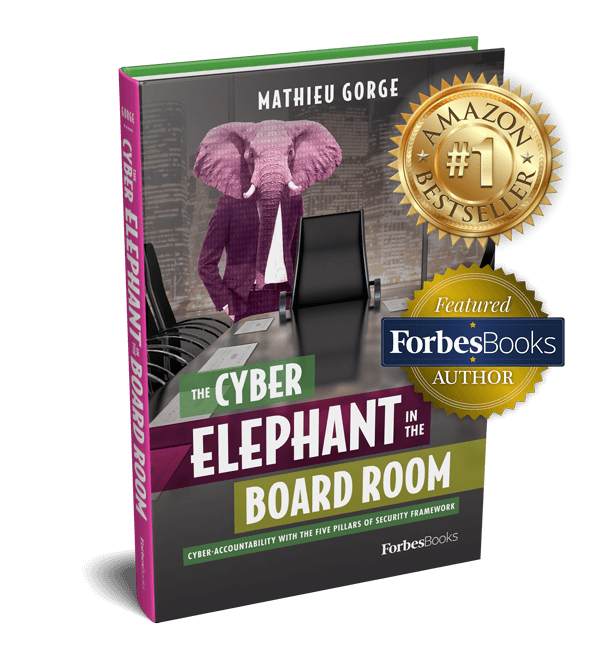
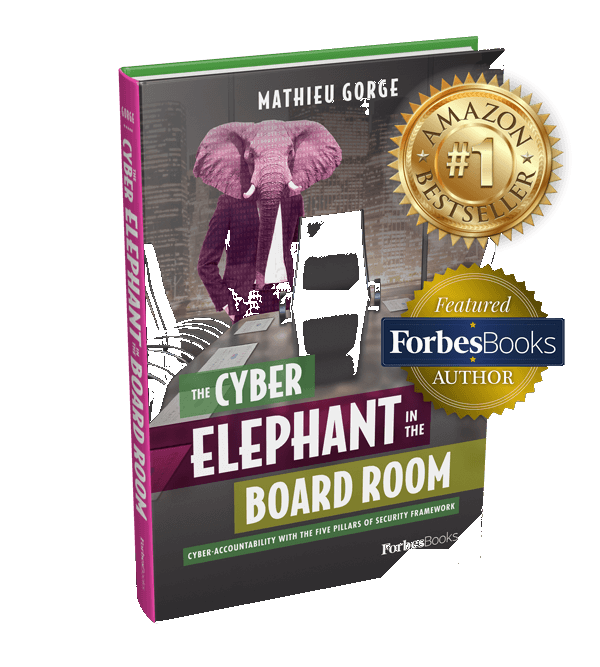
Merge pillars intro sections, whiten book cover, simplify advisory hero CTA.

diff --git a/src/app/pillars-of-security/page.tsx b/src/app/pillars-of-security/page.tsx
@@ -8,7 +8,7 @@ import {
   Users,
 } from "lucide-react";
 import { Button } from "@/components/ui/button";
-import { PageHero, SectionHeading } from "@/components/ui/section";
+import { SectionHeading } from "@/components/ui/section";
 import { SiteImage } from "@/components/ui/site-image";
 import { pillars } from "@/content/site";
 
@@ -22,32 +22,26 @@ const pillarIcons = [Building2, Users, Database, Network, Siren];
 export default function PillarsOfSecurityPage() {
   return (
     <>
-      <PageHero eyebrow={pillars.hero.eyebrow} title={pillars.hero.title} body={pillars.hero.body}>
-        <div className="flex max-w-2xl flex-col gap-6">
-          <div>
-            <Button href={pillars.about.surveyCta.href} size="lg">
-              {pillars.about.surveyCta.label}
-            </Button>
-          </div>
-          <aside className="rounded-[14px] navy-surface p-7 text-white sm:p-8">
-            <h2 className="type-h3 text-white">{pillars.help.title}</h2>
-            <p className="mt-4 text-sm leading-relaxed text-white/90">{pillars.help.body}</p>
-          </aside>
-        </div>
-      </PageHero>
+      <section className="relative overflow-hidden hero-wash border-b border-vt-border py-16 md:py-24">
+        <div className="container-vt max-w-4xl px-5 sm:px-8 lg:px-10">
+          <p className="type-eyebrow mb-3 text-vt-red">{pillars.hero.eyebrow}</p>
+          <h1 className="type-display max-w-3xl text-balance text-vt-ink">{pillars.hero.title}</h1>
+          <p className="mt-5 max-w-2xl type-body-lg text-vt-slate">{pillars.hero.body}</p>
 
-      <section className="section-pad bg-vt-paper">
-        <div className="container-vt max-w-4xl">
-          <SectionHeading eyebrow={pillars.about.eyebrow} title={pillars.about.title} />
-          <div className="mt-6 space-y-4">
-            {pillars.about.paragraphs.map((p) => (
-              <p key={p.slice(0, 40)} className="type-body-lg text-vt-slate">
-                {p}
-              </p>
-            ))}
-          </div>
-          <div className="mt-8">
-            <Button href={pillars.about.surveyCta.href}>{pillars.about.surveyCta.label}</Button>
+          <div className="mt-12 border-t border-vt-border pt-10">
+            <SectionHeading eyebrow={pillars.about.eyebrow} title={pillars.about.title} />
+            <div className="mt-6 space-y-4">
+              {pillars.about.paragraphs.map((p) => (
+                <p key={p.slice(0, 40)} className="type-body-lg text-vt-slate">
+                  {p}
+                </p>
+              ))}
+            </div>
+            <div className="mt-8">
+              <Button href={pillars.about.surveyCta.href} size="lg">
+                {pillars.about.surveyCta.label}
+              </Button>
+            </div>
           </div>
         </div>
       </section>
@@ -64,7 +58,7 @@ export default function PillarsOfSecurityPage() {
               </Button>
             </div>
           </div>
-          <div className="relative mx-auto w-full max-w-md overflow-hidden rounded-[14px] bg-black shadow-[var(--shadow-md)] ring-1 ring-vt-border lg:mx-0 lg:max-w-none">
+          <div className="relative mx-auto w-full max-w-md overflow-hidden rounded-[14px] bg-white shadow-[var(--shadow-md)] ring-1 ring-vt-border lg:mx-0 lg:max-w-none">
             <SiteImage
               src={pillars.book.image}
               alt={`${pillars.book.title} book cover`}

diff --git a/src/app/advisory-board/page.tsx b/src/app/advisory-board/page.tsx
@@ -42,11 +42,8 @@ export default function AdvisoryBoardPage() {
 
           <p className="mt-5 max-w-2xl type-body-lg text-vt-slate">{advisory.hero.lead}</p>
 
-          <div className="mt-8 flex flex-col gap-3 sm:flex-row">
-            <CharteredAdvisorCheckoutButton size="lg">
-              {advisory.hero.primaryCta.label}
-            </CharteredAdvisorCheckoutButton>
-            <Button href={advisory.hero.secondaryCta.href} variant="ghost" size="lg">
+          <div className="mt-8">
+            <Button href={advisory.hero.secondaryCta.href} size="lg">
               {advisory.hero.secondaryCta.label}
             </Button>
           </div>
